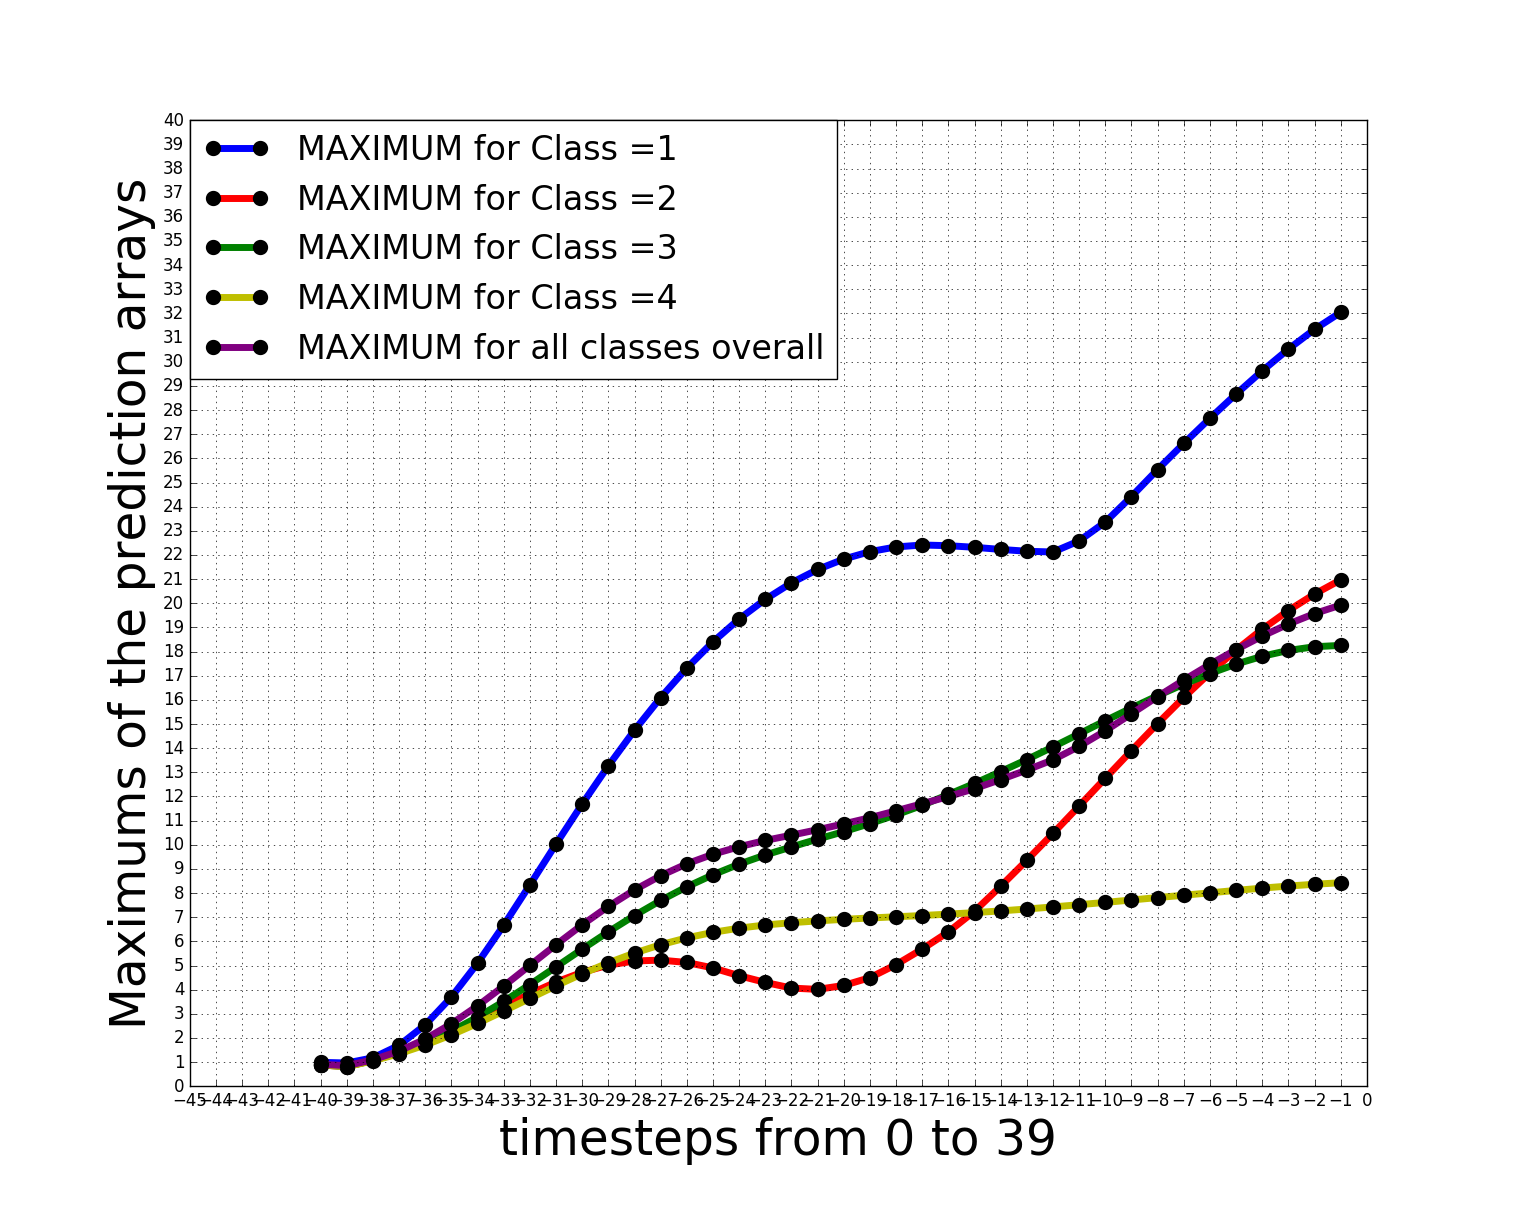
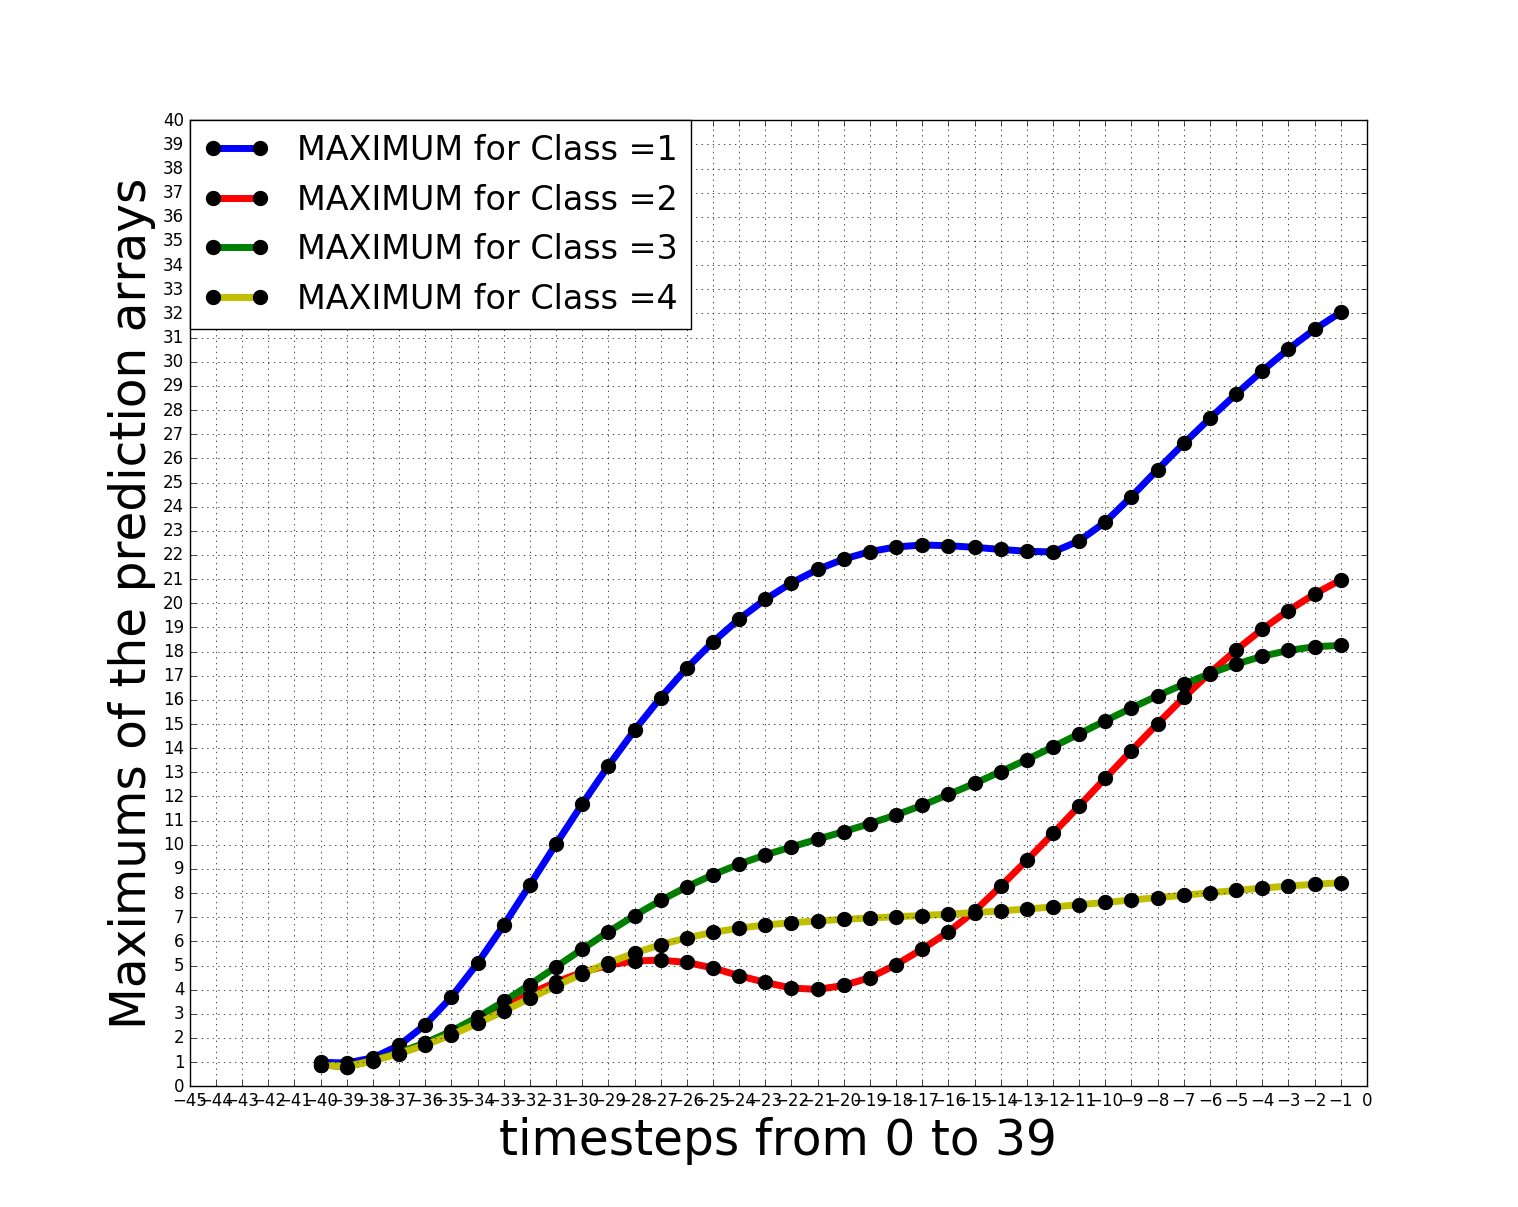
Average of Maximums and Minimums over all timesteps for individual classes

diff --git a/average_max_time.py b/average_max_time.py
@@ -16,23 +16,29 @@ import matplotlib.pyplot as plt
 import matplotlib.ticker as ticker
 import os
 
+'''
+#time _step for min
+time_step = np.array([ -40,-39,-38,-37,-36,-35,-34,-33,-32,-31,-30,-29,-28,-27,-26,-25,-24,-23,-22,-21,
+                       -20, -19,-18,-17,-16,-15,-14,-13,-12,-11,-10,-9,-8,-7,-6,-5,-4,-3,-2,-1])
+#time step for max
+'''
 time_step = np.array([ -1, -2, -3, -4, -5, -6, -7, -8, -9, -10, -11, -12, -13, -14, -15, -16, -17, -18,
                       -19, -20, -21, -22, -23, -24, -25, -26, -27, -28, -29, -30, -31, -32, -33, -34,
                       -35, -36, -37, -38, -39, -40])
 
-if os.path.exists('/home/admin/rnn&lstm_gesture_recog/max_mins/maxs/class1.npy')==True:
+if os.path.exists('/home/admin/rnn&lstm_gesture_recog/max_mins/mins/class1.npy')==True:
     class1 = (np.load('/home/admin/rnn&lstm_gesture_recog/max_mins/maxs/class1.npy'))
 
-if os.path.exists('/home/admin/rnn&lstm_gesture_recog/max_mins/maxs/class2.npy')==True:
+if os.path.exists('/home/admin/rnn&lstm_gesture_recog/max_mins/mins/class2.npy')==True:
     class2 = (np.load('/home/admin/rnn&lstm_gesture_recog/max_mins/maxs/class2.npy'))
 
-if os.path.exists('/home/admin/rnn&lstm_gesture_recog/max_mins/maxs/class3.npy')==True:
+if os.path.exists('/home/admin/rnn&lstm_gesture_recog/max_mins/mins/class3.npy')==True:
     class3 = (np.load('/home/admin/rnn&lstm_gesture_recog/max_mins/maxs/class3.npy'))
 
-if os.path.exists('/home/admin/rnn&lstm_gesture_recog/max_mins/maxs/class4.npy')==True:
+if os.path.exists('/home/admin/rnn&lstm_gesture_recog/max_mins/mins/class4.npy')==True:
     class4 = (np.load('/home/admin/rnn&lstm_gesture_recog/max_mins/maxs/class4.npy'))
 
-if os.path.exists('/home/admin/rnn&lstm_gesture_recog/max_mins/maxs/overall_class.npy')==True:
+if os.path.exists('/home/admin/rnn&lstm_gesture_recog/max_mins/mins/overall_class.npy')==True:
     overall_class = (np.load('/home/admin/rnn&lstm_gesture_recog/max_mins/maxs/overall_class.npy'))
 
 
@@ -45,7 +51,7 @@ p1, =plt.plot( time_step, class1, label="MAXIMUM for Class =1", linewidth=5, mar
 p2, =plt.plot( time_step, class2, label="MAXIMUM for Class =2", linewidth=5, marker='o', markeredgewidth= '5', markerfacecolor='black', color='r')
 p3, =plt.plot( time_step, class3, label="MAXIMUM for Class =3", linewidth=5, marker='o', markeredgewidth= '5', markerfacecolor='black', color='g')
 p4, =plt.plot( time_step, class4, label="MAXIMUM for Class =4", linewidth=5, marker='o', markeredgewidth= '5', markerfacecolor='black', color='y')
-p5, =plt.plot( time_step, overall_class, label="MAXIMUM for all classes overall", linewidth=5, marker='o', markeredgewidth= '5', markerfacecolor='black', color='purple')
+#p5, =plt.plot( time_step, overall_class, label="MAXIMUM for all classes overall", linewidth=5, marker='o', markeredgewidth= '5', markerfacecolor='black', color='purple')
 
 plt.grid()
 plt.xlim([-45,0])
@@ -57,8 +63,8 @@ ax.xaxis.set_major_locator(ticker.MultipleLocator(1))
 ax.yaxis.set_major_locator(ticker.MultipleLocator(1))
 
 
-plt.legend([ p1, p2, p3, p4, p5], [ "MAXIMUM for Class =1","MAXIMUM for Class =2", "MAXIMUM for Class =3",
-           "MAXIMUM for Class =4", "MAXIMUM for all classes overall"], loc='upper left', fontsize = 24, borderaxespad=0.)	#
+plt.legend([ p1, p2, p3, p4], [ "MAXIMUM for Class =1","MAXIMUM for Class =2", "MAXIMUM for Class =3",
+           "MAXIMUM for Class =4"], loc='upper left', fontsize = 24, borderaxespad=0.)	#
 plt.show()
 fig.savefig('plot_average_max.png')
 

diff --git a/rnn_lstm_testing.py b/rnn_lstm_testing.py
@@ -205,10 +205,11 @@ class4.append(sum(list_max[90:120]) / 30)
 
 overall_class.append(sum(list_max) /float(len(list_max)))
 
+'''
 np.save('/home/admin/rnn&lstm_gesture_recog/max_mins/class1', np.array(class1))
 np.save('/home/admin/rnn&lstm_gesture_recog/max_mins/class2', np.array(class2))
 np.save('/home/admin/rnn&lstm_gesture_recog/max_mins/class3', np.array(class3))
 np.save('/home/admin/rnn&lstm_gesture_recog/max_mins/class4', np.array(class4))
 
 np.save('/home/admin/rnn&lstm_gesture_recog/max_mins/overall_class', np.array(overall_class))
-
+'''
